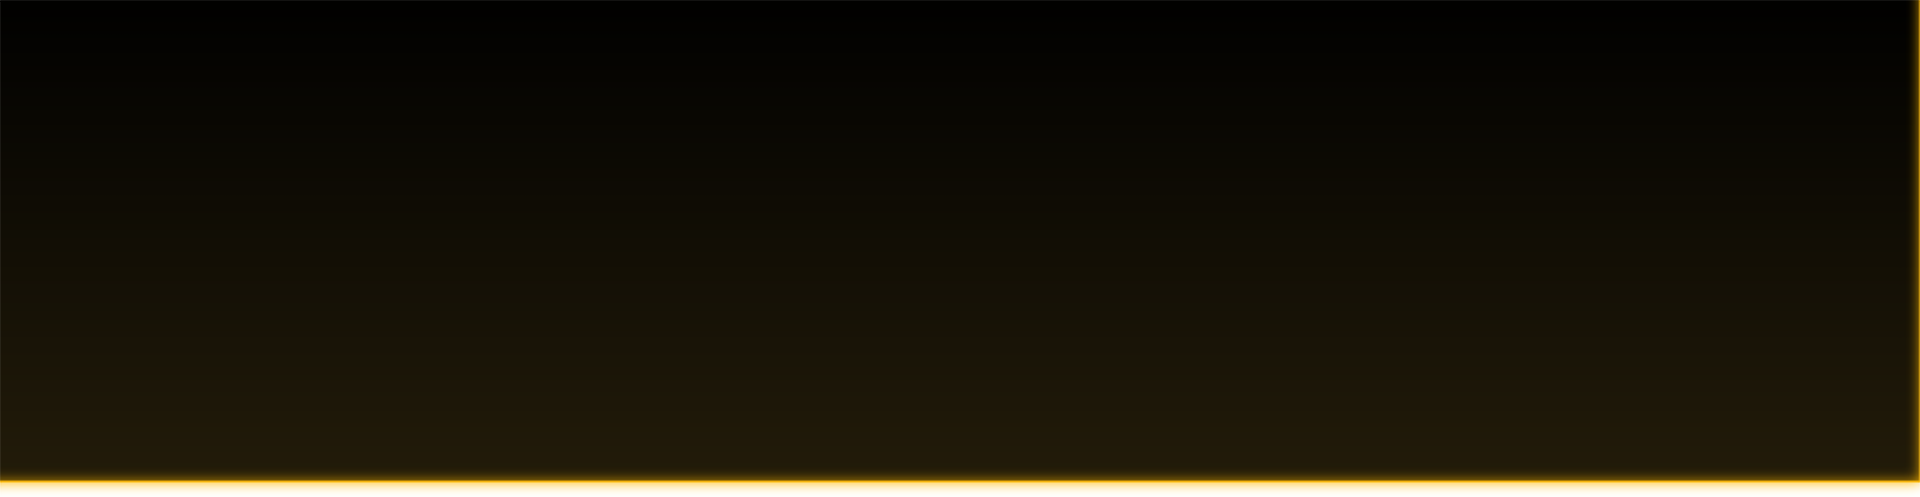
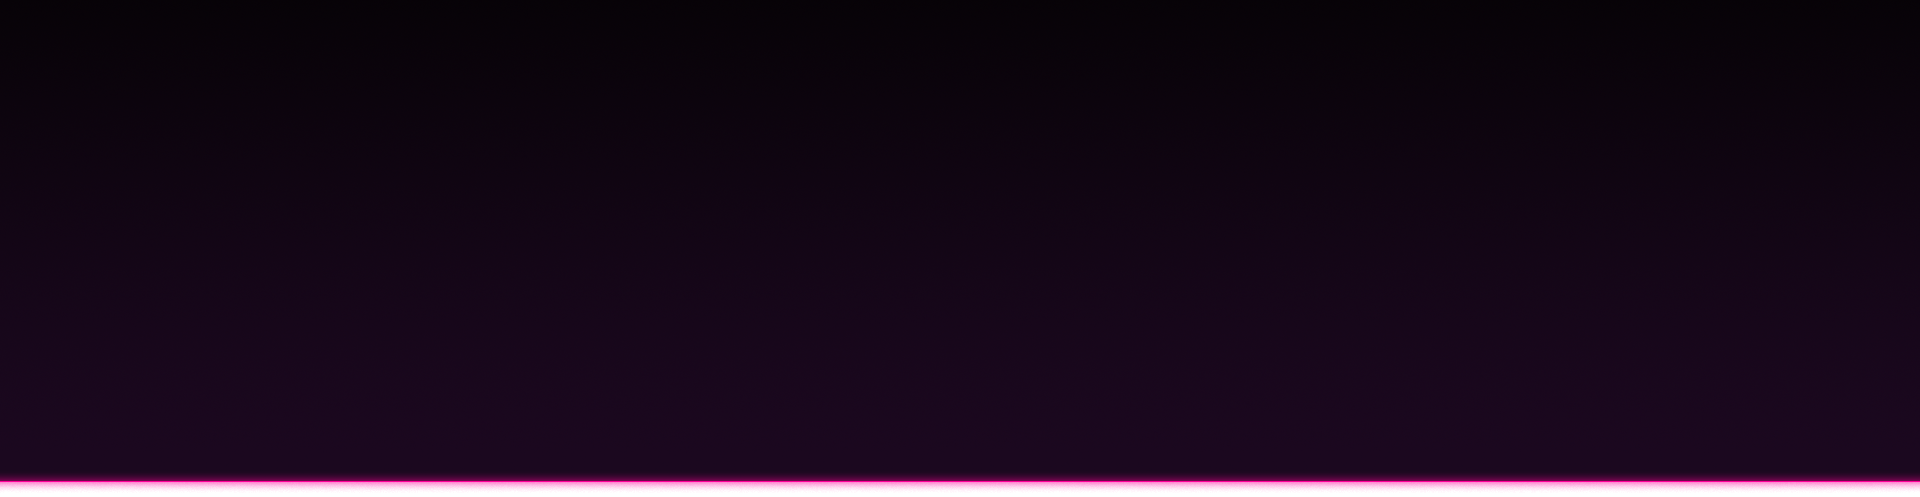
feat(break): top & bottom frame asset updates

Changed region(s): [[0.0, 0.0, 1.0, 0.996]]

diff --git a/graphics/elements/molecules/gdq-break/gdq-break-bottom-frame.html b/graphics/elements/molecules/gdq-break/gdq-break-bottom-frame.html
@@ -14,7 +14,7 @@
 			.logo {
 				position: absolute;
 				bottom: 0;
-				left: 6px;
+				left: 20px;
 				opacity: 0;
 			}
 
